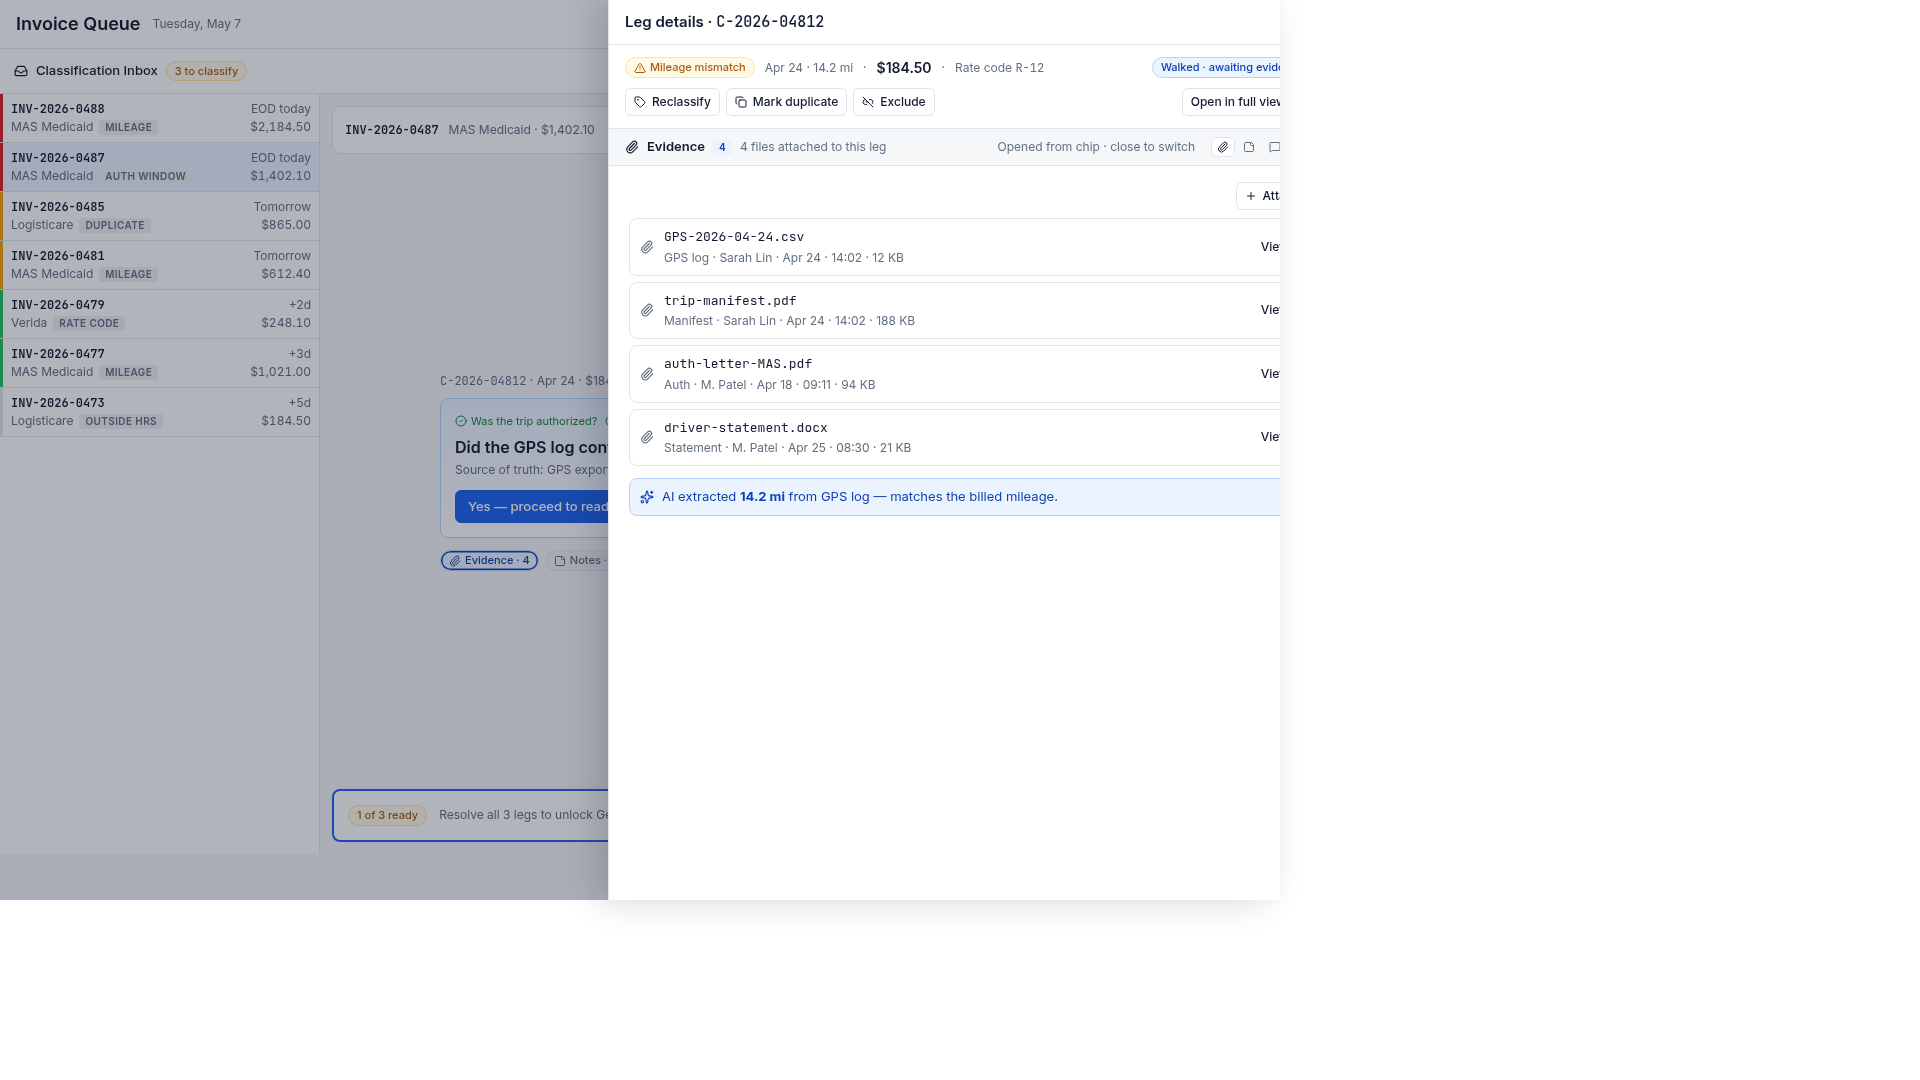
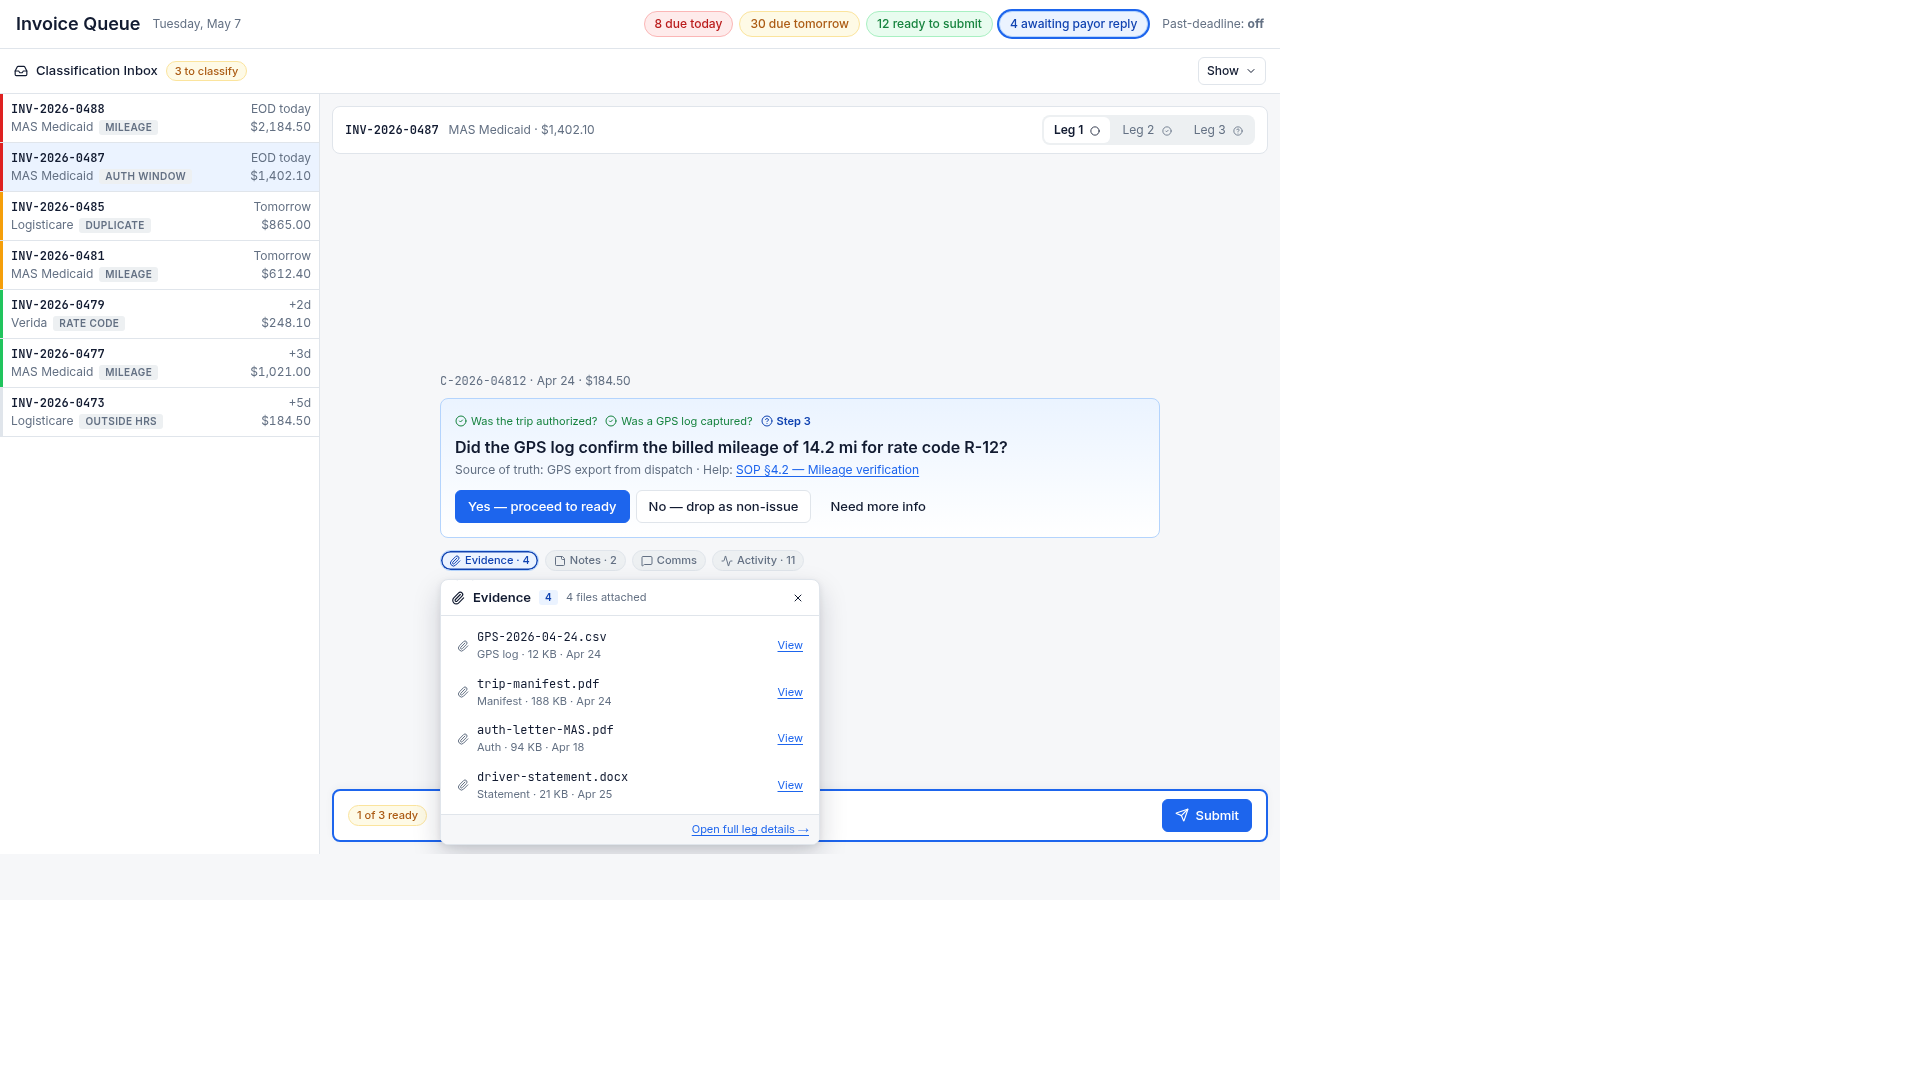
Refactor drawer to appear as a floating popover instead of a full screen
Update V3DrawerMiniInContext.tsx to implement a floating popover UI for in-context drawers, replacing the previous full-screen sheet layout. This change includes modifying the component's description and rendering logic to anchor a small panel near the selected chip, featuring a compact header and content area without a scrim. Screenshots are updated to reflect the new visual design.

Replit-Commit-Author: Agent
Replit-Commit-Session-Id: 3c685d86-7070-4473-b9d5-7d94a24199d3
Replit-Commit-Checkpoint-Type: full_checkpoint
Replit-Commit-Event-Id: 1ddf27ea-4c1a-40b8-b798-c90b2a849776
Replit-Commit-Screenshot-Url: https://storage.googleapis.com/screenshot-production-us-central1/4276ad0d-3f74-4bd1-8f69-afddd96a767f/3c685d86-7070-4473-b9d5-7d94a24199d3/Tj9I4w2
Replit-Helium-Checkpoint-Created: true

diff --git a/artifacts/mockup-sandbox/src/components/mockups/queue-redesign/V3DrawerMiniInContext.tsx b/artifacts/mockup-sandbox/src/components/mockups/queue-redesign/V3DrawerMiniInContext.tsx
@@ -1,32 +1,31 @@
 import "./_queue.css";
+import { Pin } from "lucide-react";
 import {
   HeaderStrip, ClassificationStrip, MasterList, SopActiveCard,
   legs, groupSummary, Icons,
 } from "./_shared";
-import V3DrawerMini from "./V3DrawerMini";
 
 /**
- * V3 Mini drawer — IN CONTEXT.
+ * V3 Mini drawer — IN CONTEXT (floating popover).
  *
- * Renders the active leg's wizard page (same shell as V3WalkFirst)
- * with the Mini single-section drawer overlaid as a right-hand
- * sheet, opened by clicking one of the counts-strip chips.
+ * The chips on the wizard hero stay live. Clicking one opens a small
+ * floating panel anchored just below the chip with a tight header
+ * (section name + count + close) and a single content rectangle —
+ * no full-height sheet, no scrim, no reclassify/exclude rail.
  *
- * The chip the user clicked is shown as visually pressed underneath
- * the sheet — proving the chips remain on the page (not duplicated
- * inside the drawer) and act as the primary section switcher.
+ * If the user wants the full leg view, the chip strip itself still
+ * has "Open in full view" via the page header (not duplicated here).
  *
- * Renders 4 variants by passing `section`:
- *   evidence · notes · comms · activity
+ * Variants: evidence · notes · comms · activity
  */
 
 type Section = "evidence" | "notes" | "comms" | "activity";
 
-const chipMeta: Record<Section, { label: string; n: number; icon: any }> = {
-  evidence: { label: "Evidence", n: 4,  icon: Icons.Paperclip },
-  notes:    { label: "Notes",    n: 2,  icon: Icons.StickyNote },
-  comms:    { label: "Comms",    n: 1,  icon: Icons.MessageSquare },
-  activity: { label: "Activity", n: 11, icon: Icons.Activity },
+const chipMeta: Record<Section, { label: string; n: number; icon: any; hint: string }> = {
+  evidence: { label: "Evidence", n: 4,  icon: Icons.Paperclip,     hint: "4 files attached" },
+  notes:    { label: "Notes",    n: 2,  icon: Icons.StickyNote,    hint: "2 notes · 1 pinned" },
+  comms:    { label: "Comms",    n: 1,  icon: Icons.MessageSquare, hint: "1 thread · awaiting reply" },
+  activity: { label: "Activity", n: 11, icon: Icons.Activity,      hint: "newest 8:31 today" },
 };
 
 export default function V3DrawerMiniInContext({
@@ -44,7 +43,7 @@ export default function V3DrawerMiniInContext({
       <div style={{ display: "grid", gridTemplateColumns: "320px 1fr", height: 760 }}>
         <MasterList dense />
 
-        <div style={{ display: "flex", flexDirection: "column", padding: "0.75rem", gap: "0.625rem", overflow: "hidden" }}>
+        <div style={{ display: "flex", flexDirection: "column", padding: "0.75rem", gap: "0.625rem", overflow: "hidden", position: "relative" }}>
           {/* Group summary bar */}
           <div style={{
             display: "flex", alignItems: "center", gap: "0.625rem",
@@ -61,22 +60,23 @@ export default function V3DrawerMiniInContext({
             </div>
           </div>
 
-          {/* Hero — active SOP step + the persistent chips */}
+          {/* Hero — active SOP step + the persistent chips + floating popover */}
           <div style={{
             flex: 1, display: "flex", flexDirection: "column",
             gap: "0.625rem", justifyContent: "center", padding: "0 2rem",
+            position: "relative",
           }}>
-            <div style={{ maxWidth: 720, margin: "0 auto", width: "100%" }}>
+            <div style={{ maxWidth: 720, margin: "0 auto", width: "100%", position: "relative" }}>
               <div className="cc-meta text-[11px] mb-2">
                 <span className="mono">{legs[0].conf}</span> · {legs[0].date} · {legs[0].amount}
               </div>
               <SopActiveCard question={legs[0].question} />
 
-              {/* Persistent chips (v3-walk-counts-strip in the real app).
-                  The clicked chip is shown pressed to make the link
-                  between page chip and overlaid sheet obvious. */}
-              <div style={{ marginTop: "0.75rem" }}>
+              {/* Persistent chips — wrap in a relatively-positioned holder
+                  so the floating popover can anchor under the active chip. */}
+              <div style={{ marginTop: "0.75rem", position: "relative" }}>
                 <ChipsStrip active={section} />
+                <FloatingPanel section={section} />
               </div>
             </div>
           </div>
@@ -91,43 +91,25 @@ export default function V3DrawerMiniInContext({
           </div>
         </div>
       </div>
-
-      {/* ── Sheet scrim ── */}
-      <div style={{
-        position: "absolute", inset: 0, background: "rgba(15,23,42,0.32)",
-        pointerEvents: "none",
-      }} />
-
-      {/* ── Mini drawer mounted as a right-side sheet ── */}
-      <div style={{
-        position: "absolute", top: 0, right: 0, bottom: 0,
-        width: 672, background: "var(--cc-card)",
-        boxShadow: "-12px 0 32px rgba(15,23,42,0.18)",
-        borderLeft: "1px solid var(--cc-border)",
-        overflow: "auto",
-      }}>
-        <V3DrawerMini initialSection={section} />
-      </div>
     </div>
   );
 }
 
-/* ── Chips strip showing the active chip pressed ─────────────────────── */
+/* ── Chips strip — active chip pressed ───────────────────────────────── */
 
 function ChipsStrip({ active }: { active: Section }) {
-  const items: { key: Section }[] = [
-    { key: "evidence" }, { key: "notes" }, { key: "comms" }, { key: "activity" },
-  ];
+  const items: Section[] = ["evidence", "notes", "comms", "activity"];
   return (
     <div style={{ display: "flex", gap: "0.375rem", flexWrap: "wrap" }}
          data-testid="v3-walk-counts-strip">
-      {items.map(({ key }) => {
+      {items.map((key) => {
         const m = chipMeta[key];
         const I = m.icon;
         const on = key === active;
         return (
           <span
             key={key}
+            data-chip={key}
             className={`cc-pill ${on ? "cc-pill-blue" : "cc-pill-muted"}`}
             style={on ? { boxShadow: "inset 0 0 0 1.5px var(--cc-blue-fg)" } : undefined}
           >
@@ -137,5 +119,189 @@ function ChipsStrip({ active }: { active: Section }) {
         );
       })}
     </div>
+  );
+}
+
+/* ── Floating panel — header + content rectangle ─────────────────────── */
+
+function FloatingPanel({ section }: { section: Section }) {
+  // Anchor offset under each chip (rough — chips are L→R: ev/notes/comms/act).
+  // We pick an x-offset per chip so the panel reads as anchored to the click.
+  const anchorX: Record<Section, number> = {
+    evidence: 0,
+    notes:    96,
+    comms:    176,
+    activity: 256,
+  };
+  const m = chipMeta[section];
+  const Icon = m.icon;
+
+  return (
+    <div
+      role="dialog"
+      aria-label={`${m.label} — quick view`}
+      style={{
+        position: "absolute",
+        top: "calc(100% + 8px)",
+        left: anchorX[section],
+        width: 380,
+        background: "var(--cc-card)",
+        border: "1px solid var(--cc-border)",
+        borderRadius: "var(--cc-radius)",
+        boxShadow: "0 12px 28px rgba(15,23,42,0.18), 0 2px 6px rgba(15,23,42,0.08)",
+        zIndex: 5,
+        overflow: "hidden",
+      }}
+    >
+      {/* Caret pointing up to the chip */}
+      <div style={{
+        position: "absolute", top: -6, left: 18,
+        width: 12, height: 12, transform: "rotate(45deg)",
+        background: "var(--cc-card)",
+        borderTop: "1px solid var(--cc-border)",
+        borderLeft: "1px solid var(--cc-border)",
+      }} />
+
+      {/* Header */}
+      <div style={{
+        display: "flex", alignItems: "center", gap: "0.5rem",
+        padding: "0.5rem 0.625rem",
+        borderBottom: "1px solid var(--cc-border)",
+      }}>
+        <Icon className="w-3.5 h-3.5" style={{ color: "var(--cc-fg)" }} />
+        <span style={{ fontSize: "0.8125rem", fontWeight: 600 }}>{m.label}</span>
+        <span className="cc-tag" style={{
+          background: "var(--cc-blue-bg)", color: "var(--cc-blue-fg)",
+        }}>{m.n}</span>
+        <span className="cc-meta" style={{ fontSize: "0.6875rem" }}>{m.hint}</span>
+        <button
+          aria-label="Close"
+          className="cc-btn cc-btn-ghost cc-btn-sm"
+          style={{ marginLeft: "auto", padding: "2px 4px" }}
+        >
+          <Icons.X className="w-3 h-3" />
+        </button>
+      </div>
+
+      {/* Content rectangle */}
+      <div style={{ padding: "0.5rem 0.625rem", maxHeight: 360, overflow: "auto" }}>
+        {section === "evidence" && <MiniEvidence />}
+        {section === "notes"    && <MiniNotes />}
+        {section === "comms"    && <MiniComms />}
+        {section === "activity" && <MiniActivity />}
+      </div>
+
+      {/* Footer link to full drawer */}
+      <div style={{
+        display: "flex", justifyContent: "flex-end",
+        padding: "0.375rem 0.625rem",
+        borderTop: "1px solid var(--cc-border)",
+        background: "var(--cc-bg)",
+      }}>
+        <a className="cc-link" style={{ fontSize: "0.6875rem" }}>
+          Open full leg details →
+        </a>
+      </div>
+    </div>
+  );
+}
+
+/* ── Compact section bodies ──────────────────────────────────────────── */
+
+function MiniEvidence() {
+  const files = [
+    { name: "GPS-2026-04-24.csv",  meta: "GPS log · 12 KB · Apr 24" },
+    { name: "trip-manifest.pdf",   meta: "Manifest · 188 KB · Apr 24" },
+    { name: "auth-letter-MAS.pdf", meta: "Auth · 94 KB · Apr 18" },
+    { name: "driver-statement.docx", meta: "Statement · 21 KB · Apr 25" },
+  ];
+  return (
+    <ul style={{ listStyle: "none", padding: 0, margin: 0, display: "flex", flexDirection: "column", gap: 4 }}>
+      {files.map(f => (
+        <li key={f.name} style={{
+          display: "flex", alignItems: "center", gap: 8,
+          padding: "4px 6px", borderRadius: 6,
+        }}>
+          <Icons.Paperclip className="w-3 h-3" style={{ color: "var(--cc-muted-fg)", flexShrink: 0 }} />
+          <div style={{ flex: 1, minWidth: 0 }}>
+            <div className="mono" style={{ fontSize: "0.75rem", overflow: "hidden", textOverflow: "ellipsis", whiteSpace: "nowrap" }}>{f.name}</div>
+            <div className="cc-meta" style={{ fontSize: "0.6875rem" }}>{f.meta}</div>
+          </div>
+          <a className="cc-link" style={{ fontSize: "0.6875rem" }}>View</a>
+        </li>
+      ))}
+    </ul>
+  );
+}
+
+function MiniNotes() {
+  const notes = [
+    { who: "Sarah Lin", when: "Apr 24", body: "GPS log matches manifest exactly — 14.2 mi.", pinned: true },
+    { who: "M. Patel",  when: "Apr 25", body: "Auth letter dates align with rate code R-12." },
+  ];
+  return (
+    <div style={{ display: "flex", flexDirection: "column", gap: 6 }}>
+      {notes.map((n, i) => (
+        <div key={i} style={{
+          padding: "6px 8px", border: "1px solid var(--cc-border)",
+          borderRadius: 6, background: "var(--cc-card)",
+        }}>
+          <div style={{ display: "flex", alignItems: "center", gap: 6, marginBottom: 2 }}>
+            <span style={{ fontSize: "0.75rem", fontWeight: 600 }}>{n.who}</span>
+            <span className="cc-meta" style={{ fontSize: "0.6875rem" }}>{n.when}</span>
+            {n.pinned && <span className="cc-pill cc-pill-amber" style={{ marginLeft: "auto", fontSize: "0.6875rem" }}>
+              <Pin className="w-2.5 h-2.5" /> Pinned
+            </span>}
+          </div>
+          <div style={{ fontSize: "0.75rem", lineHeight: 1.4 }}>{n.body}</div>
+        </div>
+      ))}
+    </div>
+  );
+}
+
+function MiniComms() {
+  return (
+    <div style={{ border: "1px solid var(--cc-border)", borderRadius: 6, overflow: "hidden" }}>
+      <div style={{ padding: "6px 8px", borderBottom: "1px solid var(--cc-border)", background: "var(--cc-muted)" }}>
+        <div style={{ display: "flex", alignItems: "center", gap: 6 }}>
+          <span style={{ fontSize: "0.75rem", fontWeight: 600, flex: 1, minWidth: 0,
+                         overflow: "hidden", textOverflow: "ellipsis", whiteSpace: "nowrap" }}>
+            RE: Mileage variance — leg C-2026-04812
+          </span>
+          <span className="cc-pill cc-pill-blue" style={{ fontSize: "0.625rem" }}>Awaiting reply</span>
+        </div>
+        <div className="cc-meta" style={{ fontSize: "0.6875rem", marginTop: 2 }}>
+          To: claims-review@masmedicaid.gov · Apr 24 · 14:18
+        </div>
+      </div>
+      <div style={{ padding: 8, fontSize: "0.75rem", lineHeight: 1.45 }}>
+        Hi MAS team — attaching the GPS log and trip manifest for leg C-2026-04812.
+        Both confirm 14.2 mi under rate code R-12. Please confirm acceptance.
+      </div>
+    </div>
+  );
+}
+
+function MiniActivity() {
+  const items = [
+    { when: "Apr 25 · 08:31", text: "M. Patel added a note" },
+    { when: "Apr 24 · 14:18", text: "Sarah Lin emailed MAS Medicaid" },
+    { when: "Apr 24 · 14:05", text: "Sarah Lin added a note" },
+    { when: "Apr 24 · 14:02", text: "Attached GPS log + trip manifest" },
+    { when: "Apr 24 · 13:58", text: "System: walked SOP — mileage mismatch" },
+  ];
+  return (
+    <ol style={{ listStyle: "none", padding: 0, margin: 0, display: "flex", flexDirection: "column", gap: 6 }}>
+      {items.map((e, i) => (
+        <li key={i} style={{ display: "grid", gridTemplateColumns: "12px 1fr", gap: 6, alignItems: "flex-start" }}>
+          <Icons.Clock className="w-3 h-3" style={{ color: "var(--cc-muted-fg)", marginTop: 2 }} />
+          <div>
+            <div style={{ fontSize: "0.75rem" }}>{e.text}</div>
+            <div className="cc-meta" style={{ fontSize: "0.6875rem" }}>{e.when}</div>
+          </div>
+        </li>
+      ))}
+    </ol>
   );
 }
